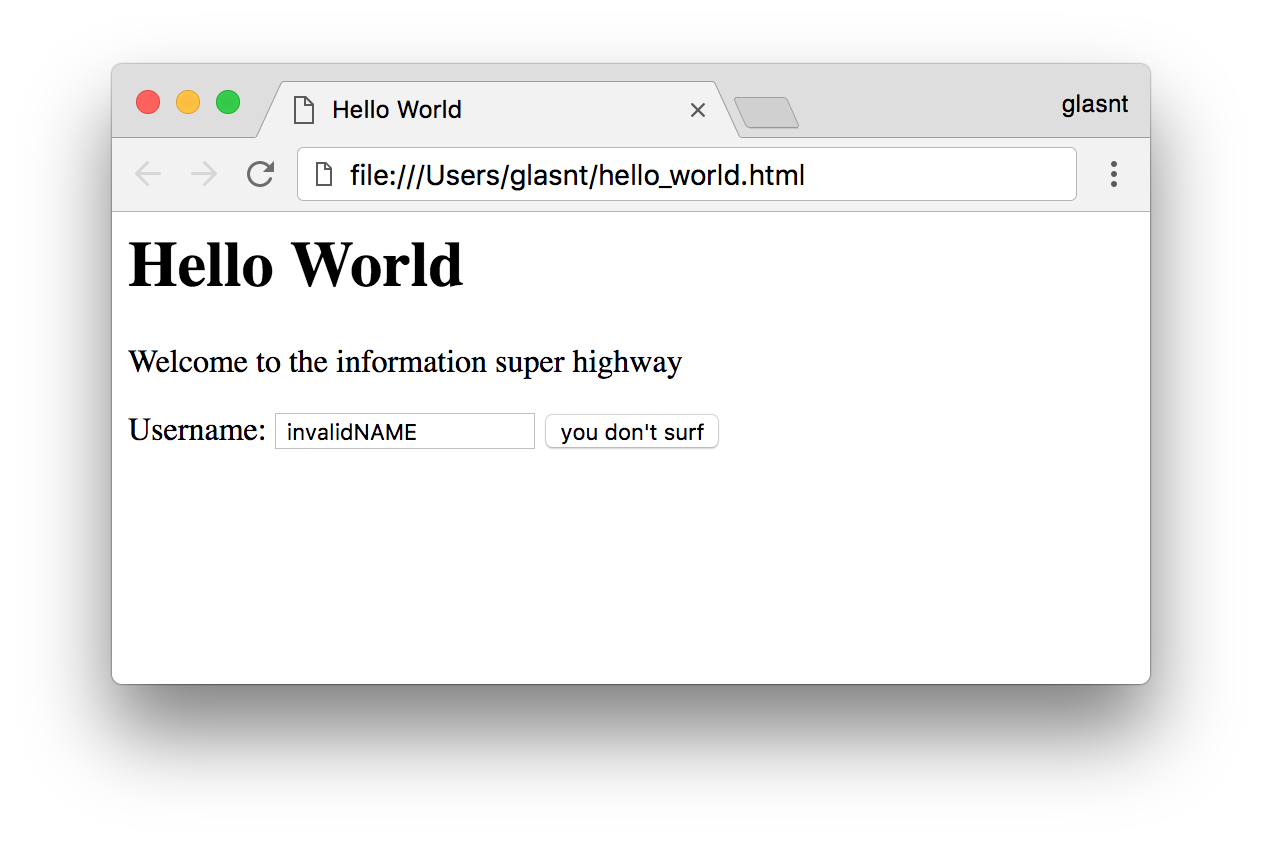
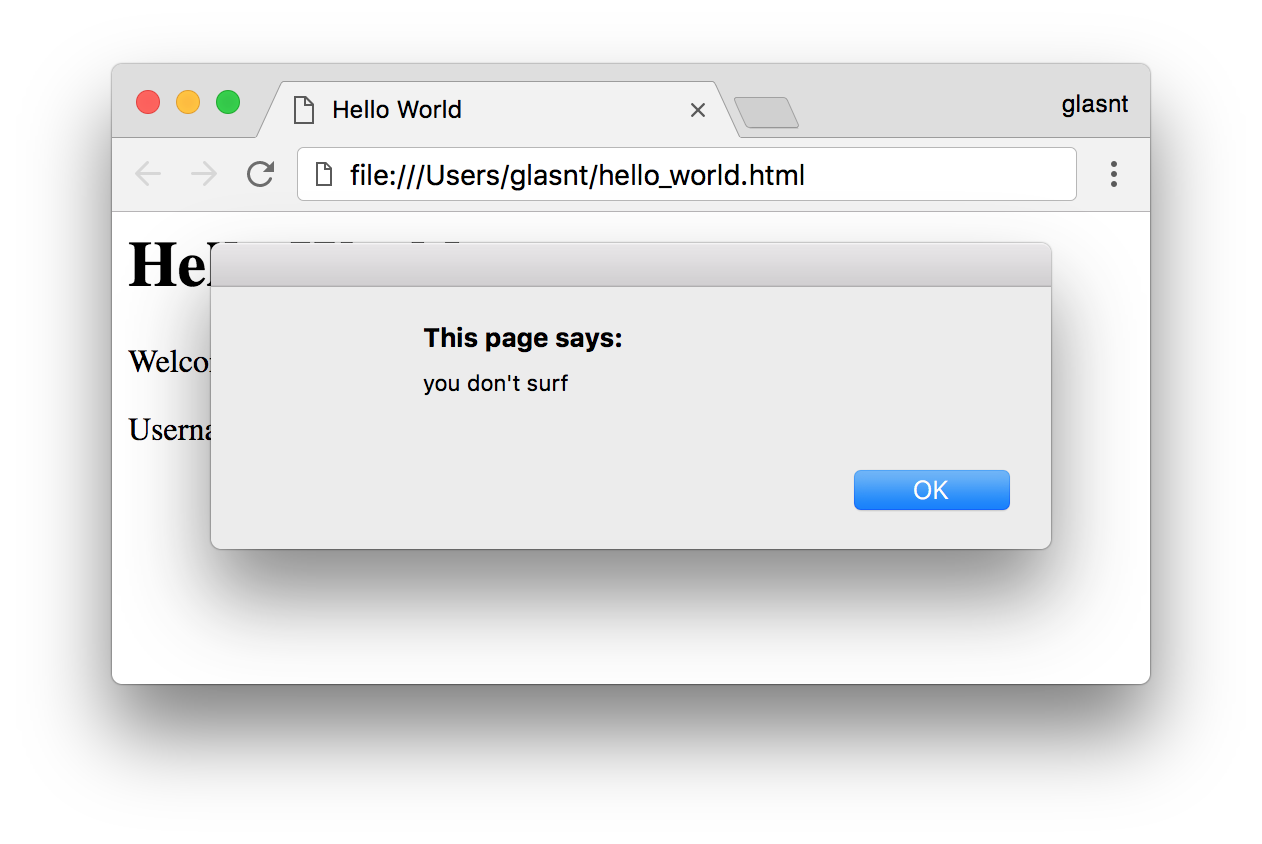
lksdjflaksjdf

Changed region(s): [[0.1236, 0.2773, 0.8653, 0.7701], [0.649, 0.5545, 0.8035, 0.6161], [0.4326, 0.4929, 0.5563, 0.5237]]

diff --git a/2017_04_SyPy/slides.md b/2017_04_SyPy/slides.md
@@ -173,9 +173,11 @@ Note: and you get this.
 
 The module 'dis' that we used, that's short for "disassembler"
 
-And what you're seeing here, is raw python bytecode.
+And what you're seeing here, is raw Cpython byteocde.
 
-This is what CPython disassembles high-level Python code into. Hence, "dis" for disassemble
+You can pretty much read here what's going onn directly.
+
+Load a global, load a constact, call a function.
 
 Thank goodness we have nicer syntax to use!
 
@@ -268,9 +270,9 @@ Note: And that stylesheet tells certain parts of the page how to display.
 
  <img src="pictures/form-window.png" />
 
-Note: We can extend our HTML to include a form.
+Note: We can extend our HTML to include a form, that will allow us to surf the internets
 
-Forms allow us to send data to the server, which means we can interact with the internet
+Well, not actually. What we're doing here is enabling us to send information from the client front-end to the serer bakend.
 
 ---
 
@@ -388,9 +390,9 @@ Note: But if we want to use this same logic client side
  <img src="pictures/javascript-logo.png" />
 Note: But because we're in the web, we have to use JavaScript
 
-JavaScript one the great language war in the browser, defeating such foes as Flash and ActiveScript.
+JavaScript one the great language war in the browser, defeating such foes as Flash, Visual basic, JScript and ActiveScript.
 
-
+Luckily. 
 ---
 <pre class="cli" style="font-size: 140%; margin-top: 0px; margin-left: -90px;"><code>function valid_username(un) {
 &nbsp; 
@@ -531,7 +533,7 @@ We could iterate over all the elements and use a charCodeAt to check if it's cha
 
 Or we could use a regex
 
-Or we could use URI encoding and then strip any symbols
+We could probably use encodeURIcomponent to convert any of the non-ascii characters, then compare with the original string to spot any differences
 
 Or we could
 
@@ -668,8 +670,7 @@ BySwBkBABTZAUAUw"
 function validate() {
 &nbsp; usr = $("username")
 &nbsp; if !valid_username(usr) {
-&nbsp; &nbsp; $("button").prop("value",
-&nbsp; &nbsp; &nbsp; "you don't surf")
+&nbsp; &nbsp; alert("you don't surf")
 &nbsp; }
 } 
 ---
@@ -803,8 +804,14 @@ Note: if we take our form, we can re-create it in Toga
 <pre ><code>import toga
 
 class SuperHighway(toga.App):
-&nbsp; &nbsp; def validate_user(self, widget):
+
+
+&nbsp; &nbsp; def valid_username(un):
 &nbsp; &nbsp; &nbsp; &nbsp; ...
+
+&nbsp; &nbsp; def validate_user(self, widget):
+&nbsp; &nbsp; &nbsp; &nbsp; if not valid_username(self.username.value):
+&nbsp; &nbsp; &nbsp; &nbsp; &nbsp; &nbsp;self.main_window.info_dialog("Denied", "you don't surf")
 
 &nbsp; &nbsp; def startup(self):
 &nbsp; &nbsp; &nbsp; &nbsp; self.main_window &equals; toga.MainWindow(self.name)
@@ -816,30 +823,30 @@ class SuperHighway(toga.App):
 &nbsp; &nbsp; &nbsp; &nbsp; self.main_window.show()
 
 def main():
-&nbsp; &nbsp; return SuperHighway("Hello World", "org.pybee.superhighway")
+&nbsp; &nbsp; return SuperHighway("Super Highway", "org.pybee.superhighway")
 </code></pre> 
 ---
 <pre><code> 
-<c># UI follows</c>
-un_label = toga.Label("Username")
-self.username = toga.TextInput()
-button = toga.Button("Surf", on_press=self.validate_user)
+<c># UI elements</c>
+un_label &equals; toga.Label("Username")
+self.username &equals; toga.TextInput()
+button &equals; toga.Button("Surf", on_press&equals;self.validate_user)
 
-box = toga.Box()
+box &equals; toga.Box()
 box.add(un_label) 
 box.add(self.username) 
 box.add(button) 
-self.username.style.set(width100)  <!-- .slide: class="center" -->
-un_label.style.set(width100)  <!-- .slide: class="center" -->
-button.style.set(width100)  <!-- .slide: class="center" -->
-box.style.set(padding30)  <!-- .slide: class="center" -->
-
+self.username.style.set(width&equals;100) 
+un_label.style.set(width&equals;100) 
+button.style.set(width&equals;100) 
+box.style.set(padding&equals;30) 
 </code></pre> 
+
 ---
 
 <pre class="cli"><code>
 
-$ python app.py</code></pre>
+$ python -m highway</code></pre>
 
 Note: we can then run this code, and we get...
 ---
@@ -847,6 +854,11 @@ Note: we can then run this code, and we get...
  <img src="pictures/toga-app.png" />
 
 Note: our program as a native platform application; in this case, macOS
+---
+
+ <img src="pictures/toga-app-popup.png" />
+
+Note: including the popup
 
 But if we want to take this away somewhere...
 
@@ -857,20 +869,24 @@ But if we want to take this away somewhere...
 
 Note: then, we can take this code, and wrap it in breifcase
 
-Why is it called briefcase? TODO
+Why is it called briefcase? Because it allows you to carry your apps around
+
+Sorry. I didn't name these things
 
 ---
 
 <pre class="cli"><code>
 
 $ python setup.py macOS
-$ open app/MyApp.app</code></pre>
-
+$ open highway/Super\ Highway.app</code></pre>
 ---
 
+ <img src="pictures/toga-icon.png" />
+
+Note: See? nice little self-contain macOS app
+---
  <img src="pictures/toga-app.png" />
 ---
-
 
 <pre class="cli"><code>$ python setup.py django
 $ ./django/manage.py runserver</code></pre>
@@ -890,16 +906,10 @@ $ open iOS/MyApp.xcodeproj</code></pre>
 
  <img src="pictures/validate_iphone_small.png" style="margin-top: -50px" />
 
+Note: 
 
----
-
-<pre class="cli"><code>
-
-$ python setup.py android
-$ ./gradlew run</code></pre>
----
-### TODO android screenshot here <!-- .slide: class="center" -->
- <img src="pictures/validate_android.png" style="margin-top: -50px" />
+TODO 
+Android, windows, linux screnshots
 ---
 
  <div style='width: 100%; margin: 0 auto;'><p align='center'><img height='266px' src='pictures/space.svg'><img height='266px' src='pictures/sparkles.svg'><img height='266px' src='pictures/space.svg'></p></div> <!-- .slide: class="center" -->
@@ -960,31 +970,33 @@ Note: but what about 3.6?
 Well, some parts work, but 3.6 presents and interseting problem
 ---
 
-## TODO - bytecode vs wordcode <!-- .slide: class="center" -->
+## Bytecode vs Wordcode <!-- .slide: class="center" -->
+
+Note: remember how I said that bytecode was a cpython implementation? Well, even through it is documented, it's not formal, it's considered 'internal', and they made no guarentee of backwards compatbility
+
+The basis of this particular change is changing the underlying opcodes to use 16 bit units for various optimisations. The thing is, this is changes the marshelling that batavia does to wrangle bytecode around, so it doesn't work for 3.6
 
 ---
 
-## TODO - alpha, blah, blah, plz contribute/sponsor <!-- .slide: class="center" -->
+## You can help! <!-- .slide: class="center" -->
 
+Note: However, you can totally help! We have an open offer to mentor anyone who wants to contribute, even if you've never contributed to open source.
+
+If you do contrinue to the project
+
+---
+ <img src="pictures/challenge-coin.png" />
+Note: i
+You get one of the famous BeeWare challenge coins. If you have already contributed to beeware and haven't received your coin, I have a few here tonight, come and see me afterwards
 ---
 
 # We have a booth at OSCON and PyCon US! <!-- .slide: class="center" -->
 
-Note: TODO: Booth picture
-
+Note: Also, if you're coming along to OSCON or Pycon US, we'll have a booth there, where I'll have
 ---
  <img src="pictures/livebees.jpg" />
 
-Note: We have stickers, all kinds
-
----
-
- <img src="pictures/challenge-coin.png" />
-Note: We also have a shiny coin
-
-If you make a contribution to the beeware project, any contribution, you get a shiny coin
-
-We'll be here all through the sprints.
+Note: stickers! many many stickers. I don't have many here, sadly, but if you'd like one, come see me.
 
 
 ---
